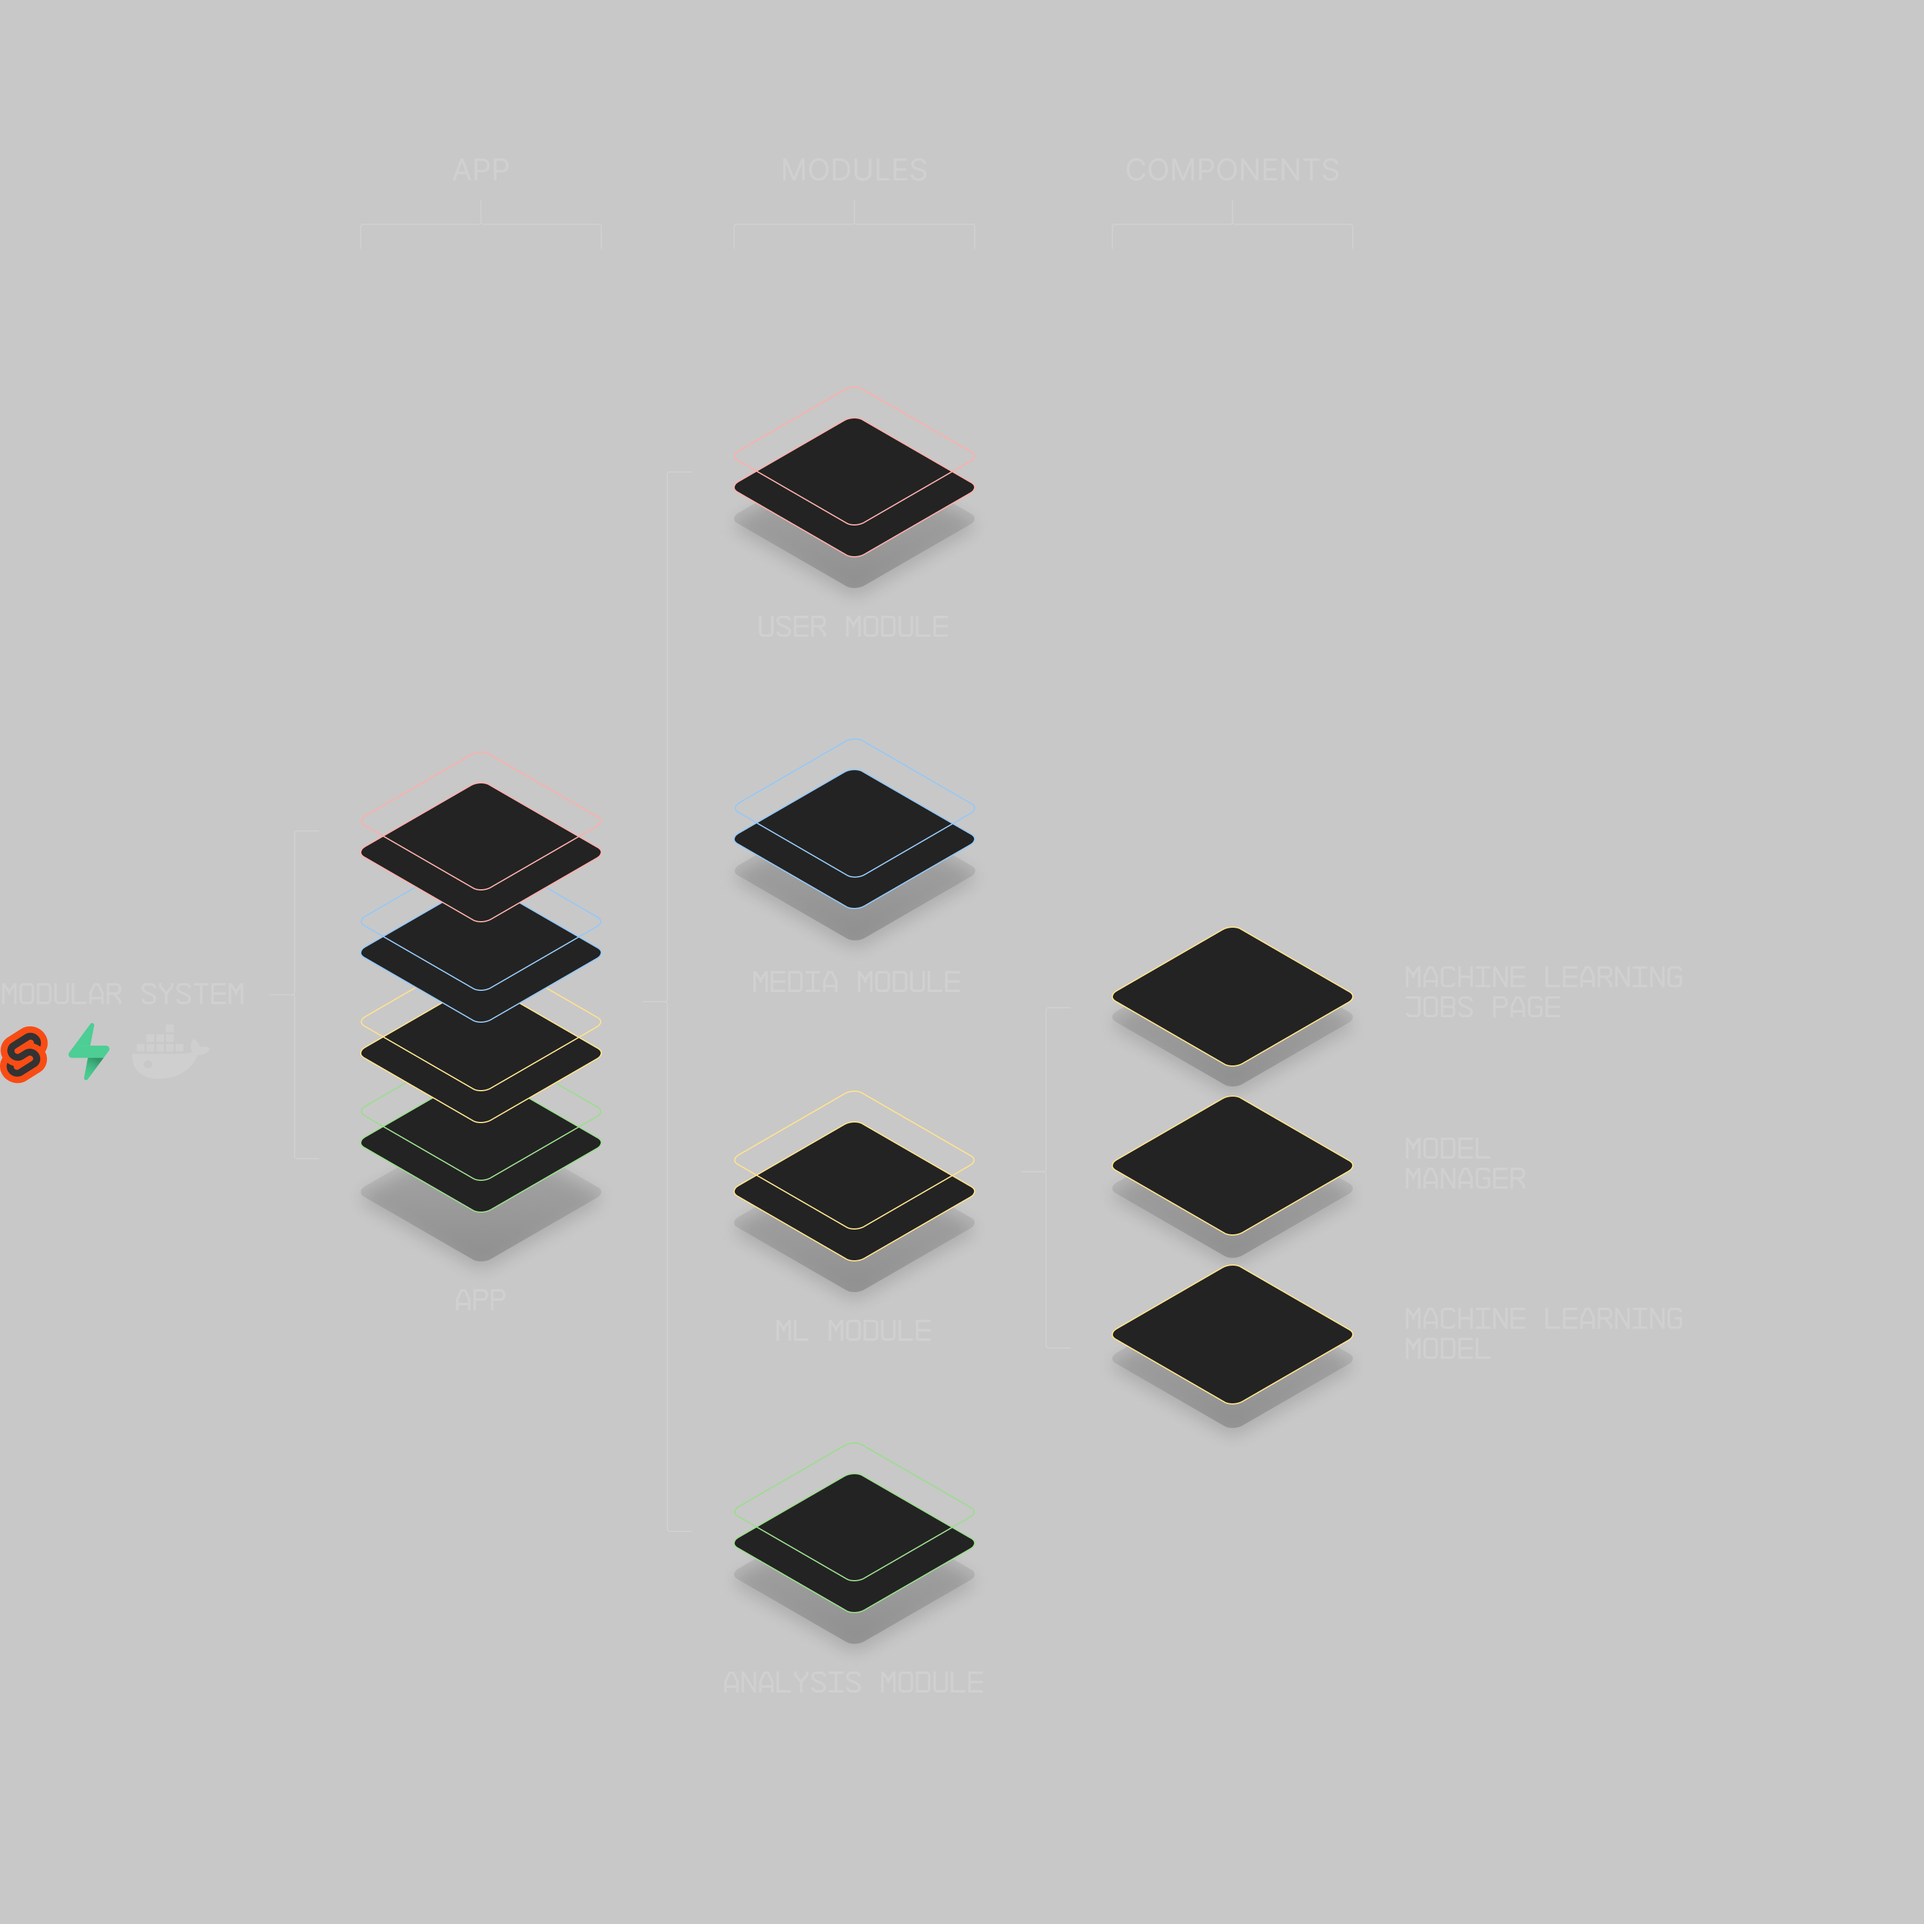
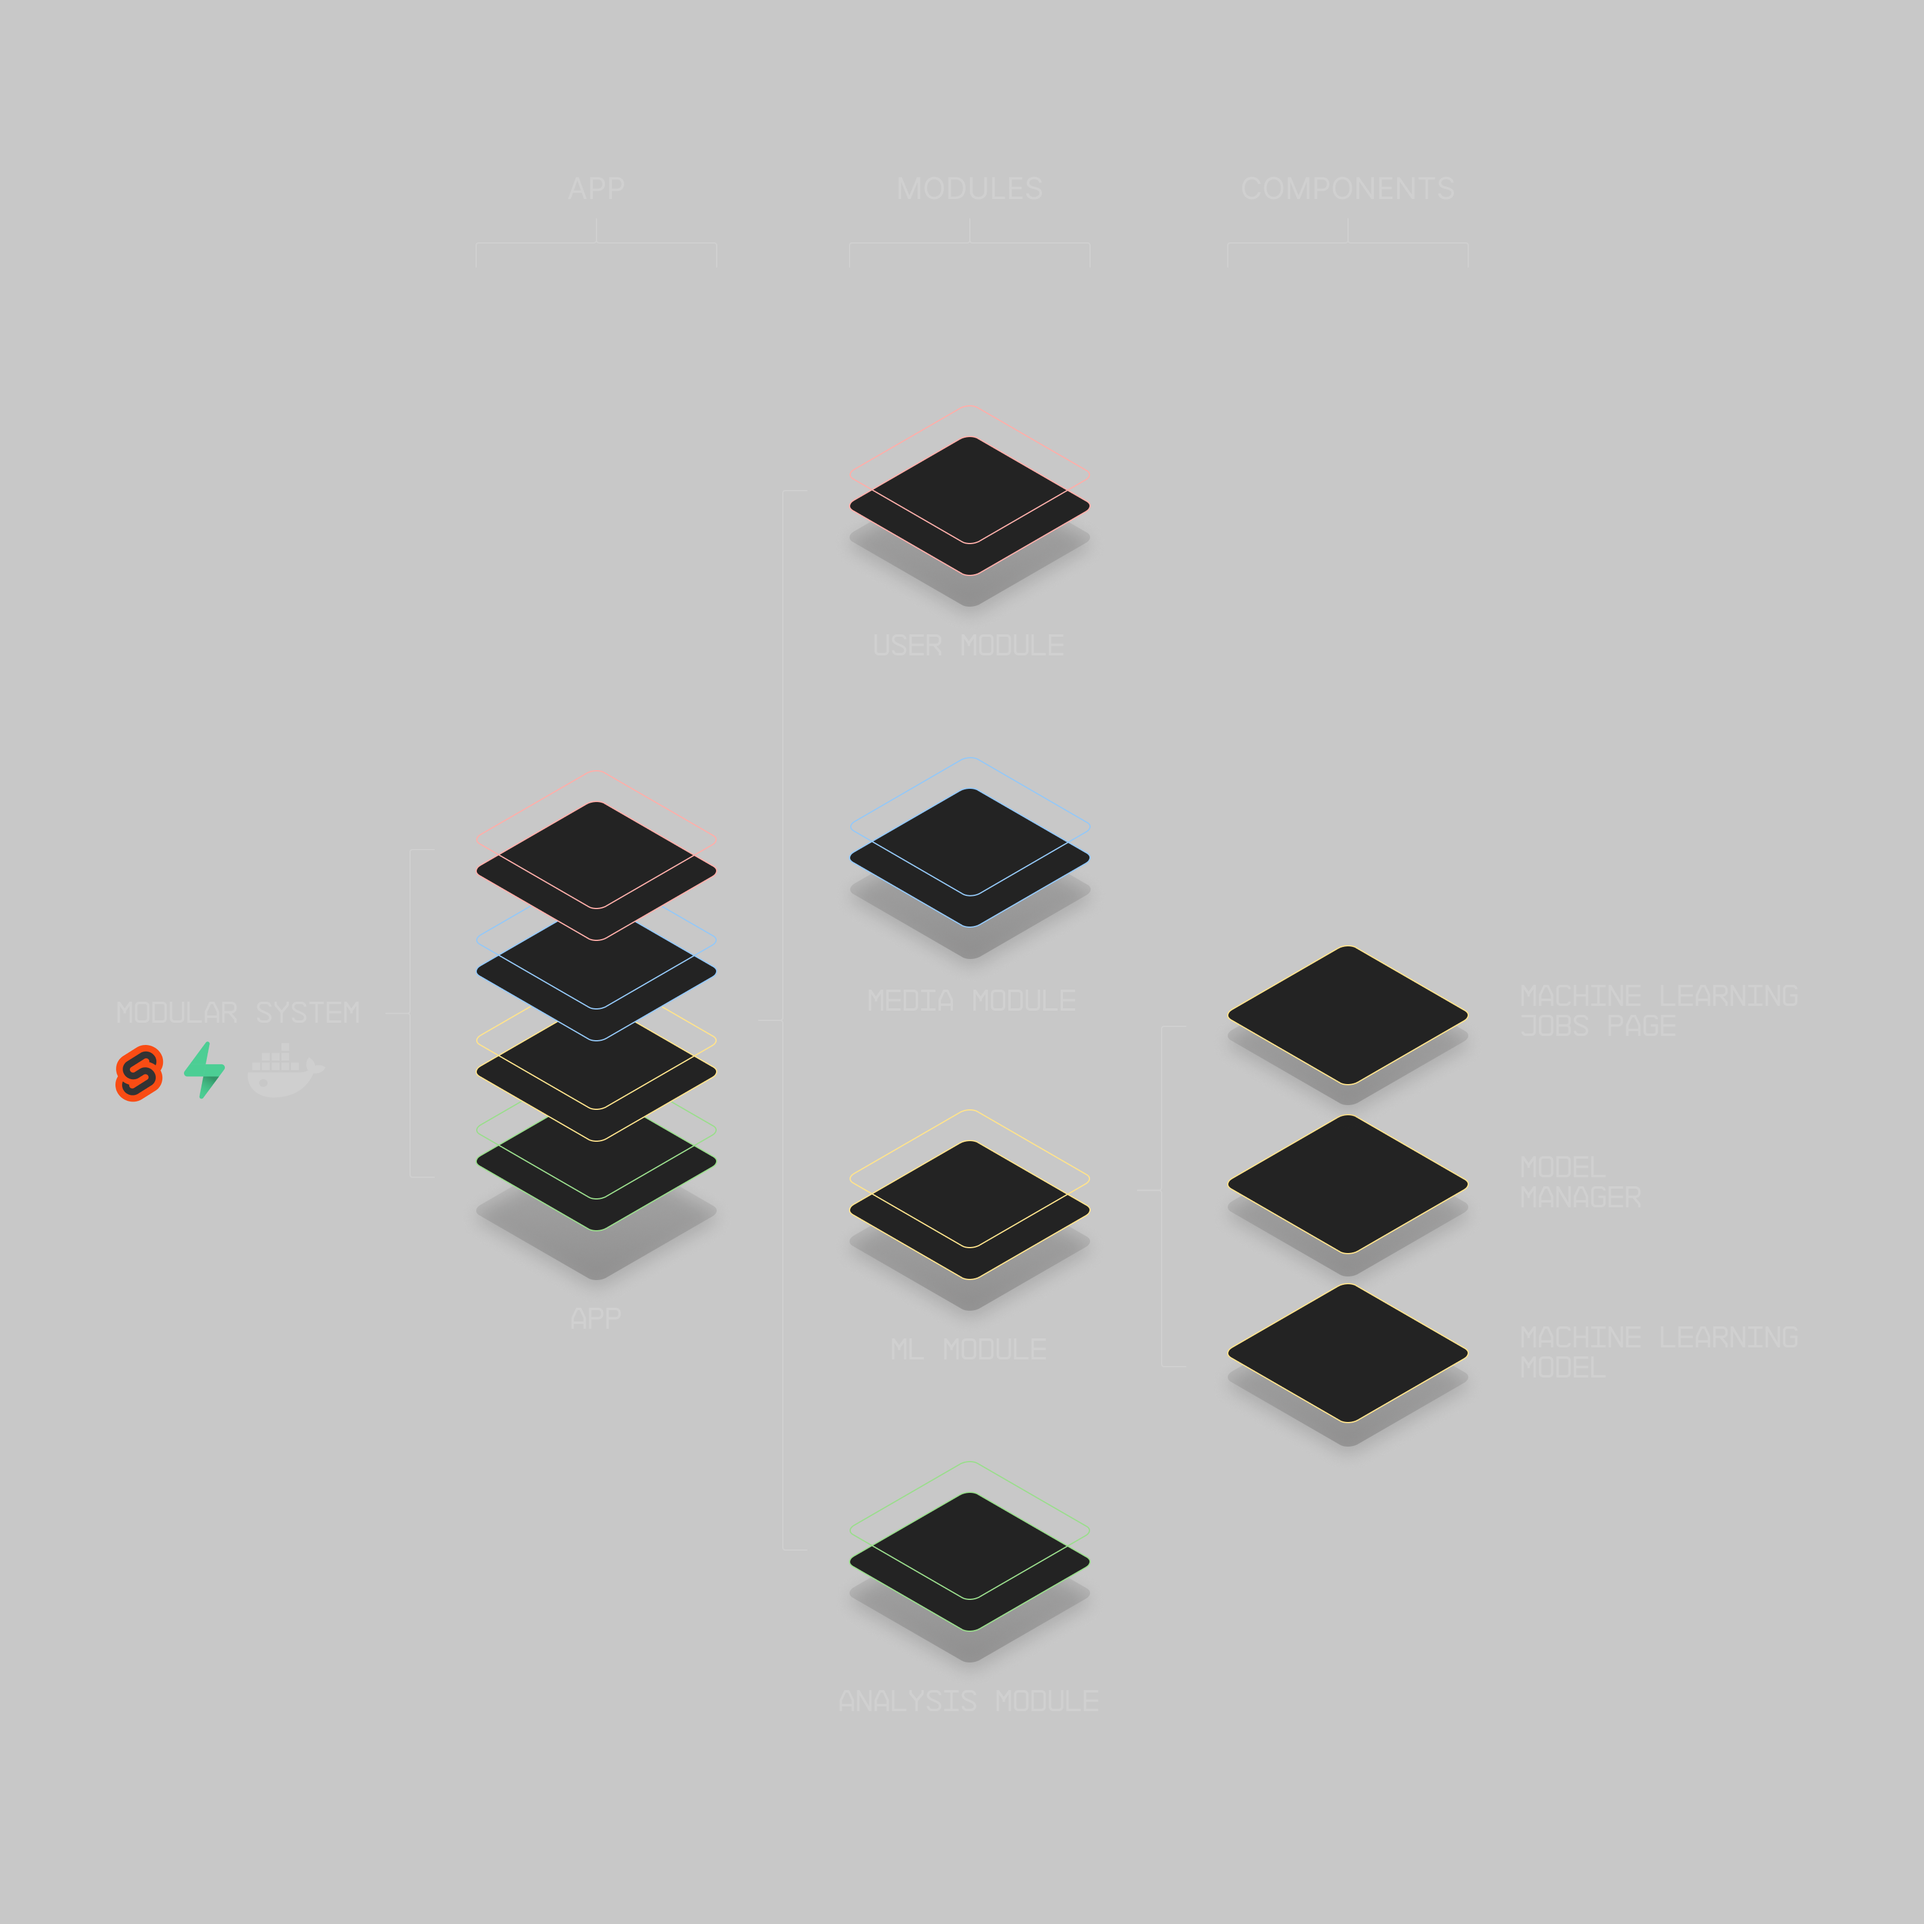
edit

diff --git a/src/routes/(pages)/systems/+page.svelte b/src/routes/(pages)/systems/+page.svelte
@@ -9,7 +9,7 @@
 	main {
 		position: relative;
 		height: 100vh;
-		max-width: 100vw;
+		width: 100vw;
 		display: flex;
 		align-items: center;
 		justify-content: center;
